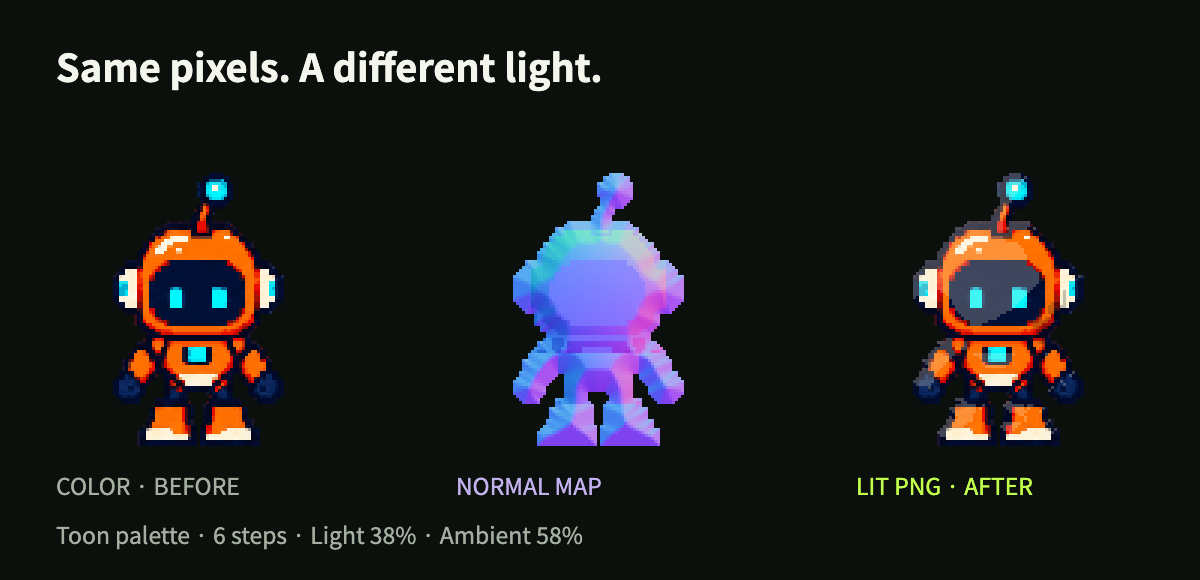
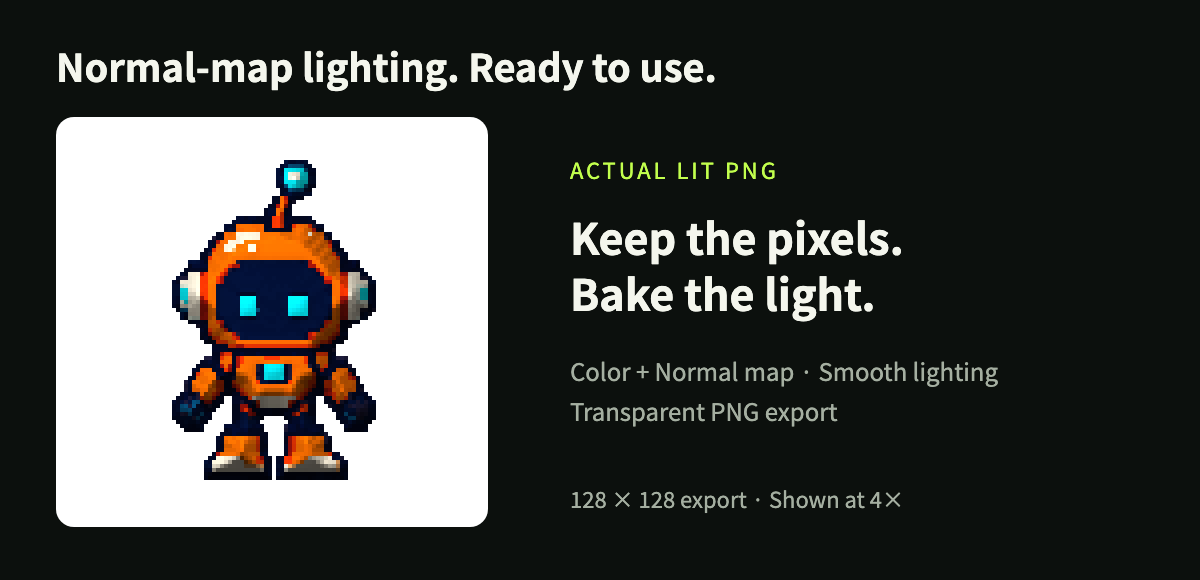
docs: showcase the selected Lit PNG export

diff --git a/docs/media/README.md b/docs/media/README.md
@@ -1,6 +1,6 @@
 # README demo media
 
-The comparisons use actual Editable Pixel exports from the robot fixture in [robot-hop-8](../test-assets/robot-hop-8/). The working demo has eight 128×128 frames. Remotion 4.0.520 composes the labels and comparisons; sprites are displayed at matching integer scales without resampling their logical pixel grids.
+The palette and grounding comparisons use actual Editable Pixel exports from the robot fixture in [robot-hop-8](../test-assets/robot-hop-8/), with eight 128×128 frames. The lighting showcase uses the separately supplied [evaluation-fixture-lit.png](./evaluation-fixture-lit.png), a 128×128 RGBA image. Remotion 4.0.520 composes the labels; sprite images use integer display scales without filtering.
 
 ## What each example demonstrates
 
@@ -8,7 +8,7 @@ The comparisons use actual Editable Pixel exports from the robot fixture in [rob
 | --- | --- | --- |
 | [Palette](./before-after-palette.png) | 35 warm shell colors, from dark red shadows through orange midtones to cream highlights, mapped to 35 distinct blues across all eight frames. | Every pixel not using those palette entries; alpha, pose, position, frame timing, and normal-map pixels. |
 | [Ground](./before-after-ground.png) | An intentionally offset Frame 8 moved down 13 px, from bottommost opaque Y108 to Y121, matching Frame 1. | Frame 8's pose and color pixels. The reference and final pose are not identical. |
-| [Lighting](./before-after-lighting.png) | Prepared per-frame normal maps rendered with Toon Palette lighting: 6 steps, intensity 0.38, ambient 0.58. | The editable Color layer and alpha. Lighting is baked only into the Lit export. |
+| [Lighting](./before-after-lighting.png) | Displays the user-selected Lit PNG on a white presentation backdrop, at 4×. The workflow caption introduces Smooth lighting instead of Toon Palette steps. | The supplied PNG's complete RGBA data. It is not recolored, relit, or regenerated for the showcase. |
 
 [Editor screenshot](./editor-palette-ai.png) shows the real browser after the blue-palette edit. It is not a recreated editor mockup or an AI-host chat transcript.
 
@@ -35,9 +35,17 @@ Frames 3 and 5 use 34 of the warm shades; the other frames use all 35. The origi
 ## Scope of the examples
 
 - These are separate editing demonstrations, not successive promises of automatic quality improvement.
-- The normal maps were prepared for the demo; image import alone does not infer them.
+- Normal-map editing and Smooth lighting are product features; image import alone does not infer a normal map. The selected lighting PNG does not embed its original normal map or lighting settings. No claim is made that the previous demo's normal map or numeric light settings produced this file.
 - The grounding example was staged in a separate demo copy, then repaired through the real move-selection action.
 - The accompanying promotional video's palette edit uses a real MCP screen recording at 3× speed. Its request text is an editorial caption.
-- The earlier 64×64 motion GIF and editor screenshot are retained for history, but the current before/after comparisons use the 128×128 demo.
+- The earlier 64×64 motion GIF and editor screenshot are retained for history. Palette and grounding use the 128×128 animation demo; the lighting showcase is a separate static 128×128 export, not eight animated frames.
+
+## Lighting source
+
+- Supplied file: `evaluation-fixture-lit.png`, selected by the user from Downloads on 2026-09-03.
+- The tracked PNG is byte-identical to that file; only the surrounding presentation is composed in Remotion.
[1 lines of base64/hex data omitted]
+- The README shows it at 4×, and the video's lighting scene at 6×. Both use nearest-neighbor display.
+- The earlier Color/Normal/Lit triptych and six-step/38% captions were replaced, because their source maps did not match the selected PNG.
 
 Verified on 2026-09-03.

diff --git a/README.md b/README.md
@@ -10,7 +10,7 @@ Change a character's color scheme without redrawing it. Align animation frames. 
 
 ## Before and after
 
-These are actual Editable Pixel exports from an eight-frame, **128×128** robot demo, displayed at matching integer scales. The sprite is edited, not regenerated.
+The palette and alignment comparisons use an eight-frame, **128×128** robot demo, displayed at matching integer scales. The lighting showcase uses a separately selected Lit PNG export. The sprites are not regenerated.
 
 ### Recolor the character, including its shading
 
@@ -30,11 +30,11 @@ A deliberately offset demo frame is moved **13 pixels**. Its pose is preserved; 
 
 ### Add lighting without repainting the color layer
 
-> “Use the normal maps with one consistent six-step light, then export Lit PNGs.”
+> “Use a prepared normal map with Smooth lighting, then export a Lit PNG.”
 
-![Color sprite, painted normal map, and the baked lighting result](./docs/media/before-after-lighting.png)
+![Actual 128×128 robot Lit PNG export shown at 4×](./docs/media/before-after-lighting.png)
 
-This example uses **prepared per-frame normal maps**, Toon Palette lighting with six steps, 38% light strength, and 58% ambient light. Color, Normal, and Lit are separate exports; importing an image alone does not automatically create its normal map.
+The showcase displays the selected [Lit PNG](./docs/media/evaluation-fixture-lit.png) unchanged. Use **Smooth lighting** with a prepared normal map for continuous shading rather than Toon Palette steps. Color, Normal, and Lit are separate exports; importing an image alone does not automatically create its normal map. This is an output showcase; the original map and light settings are not included in the supplied PNG.
 
 [Demo details and verification](./docs/media/README.md)
 
